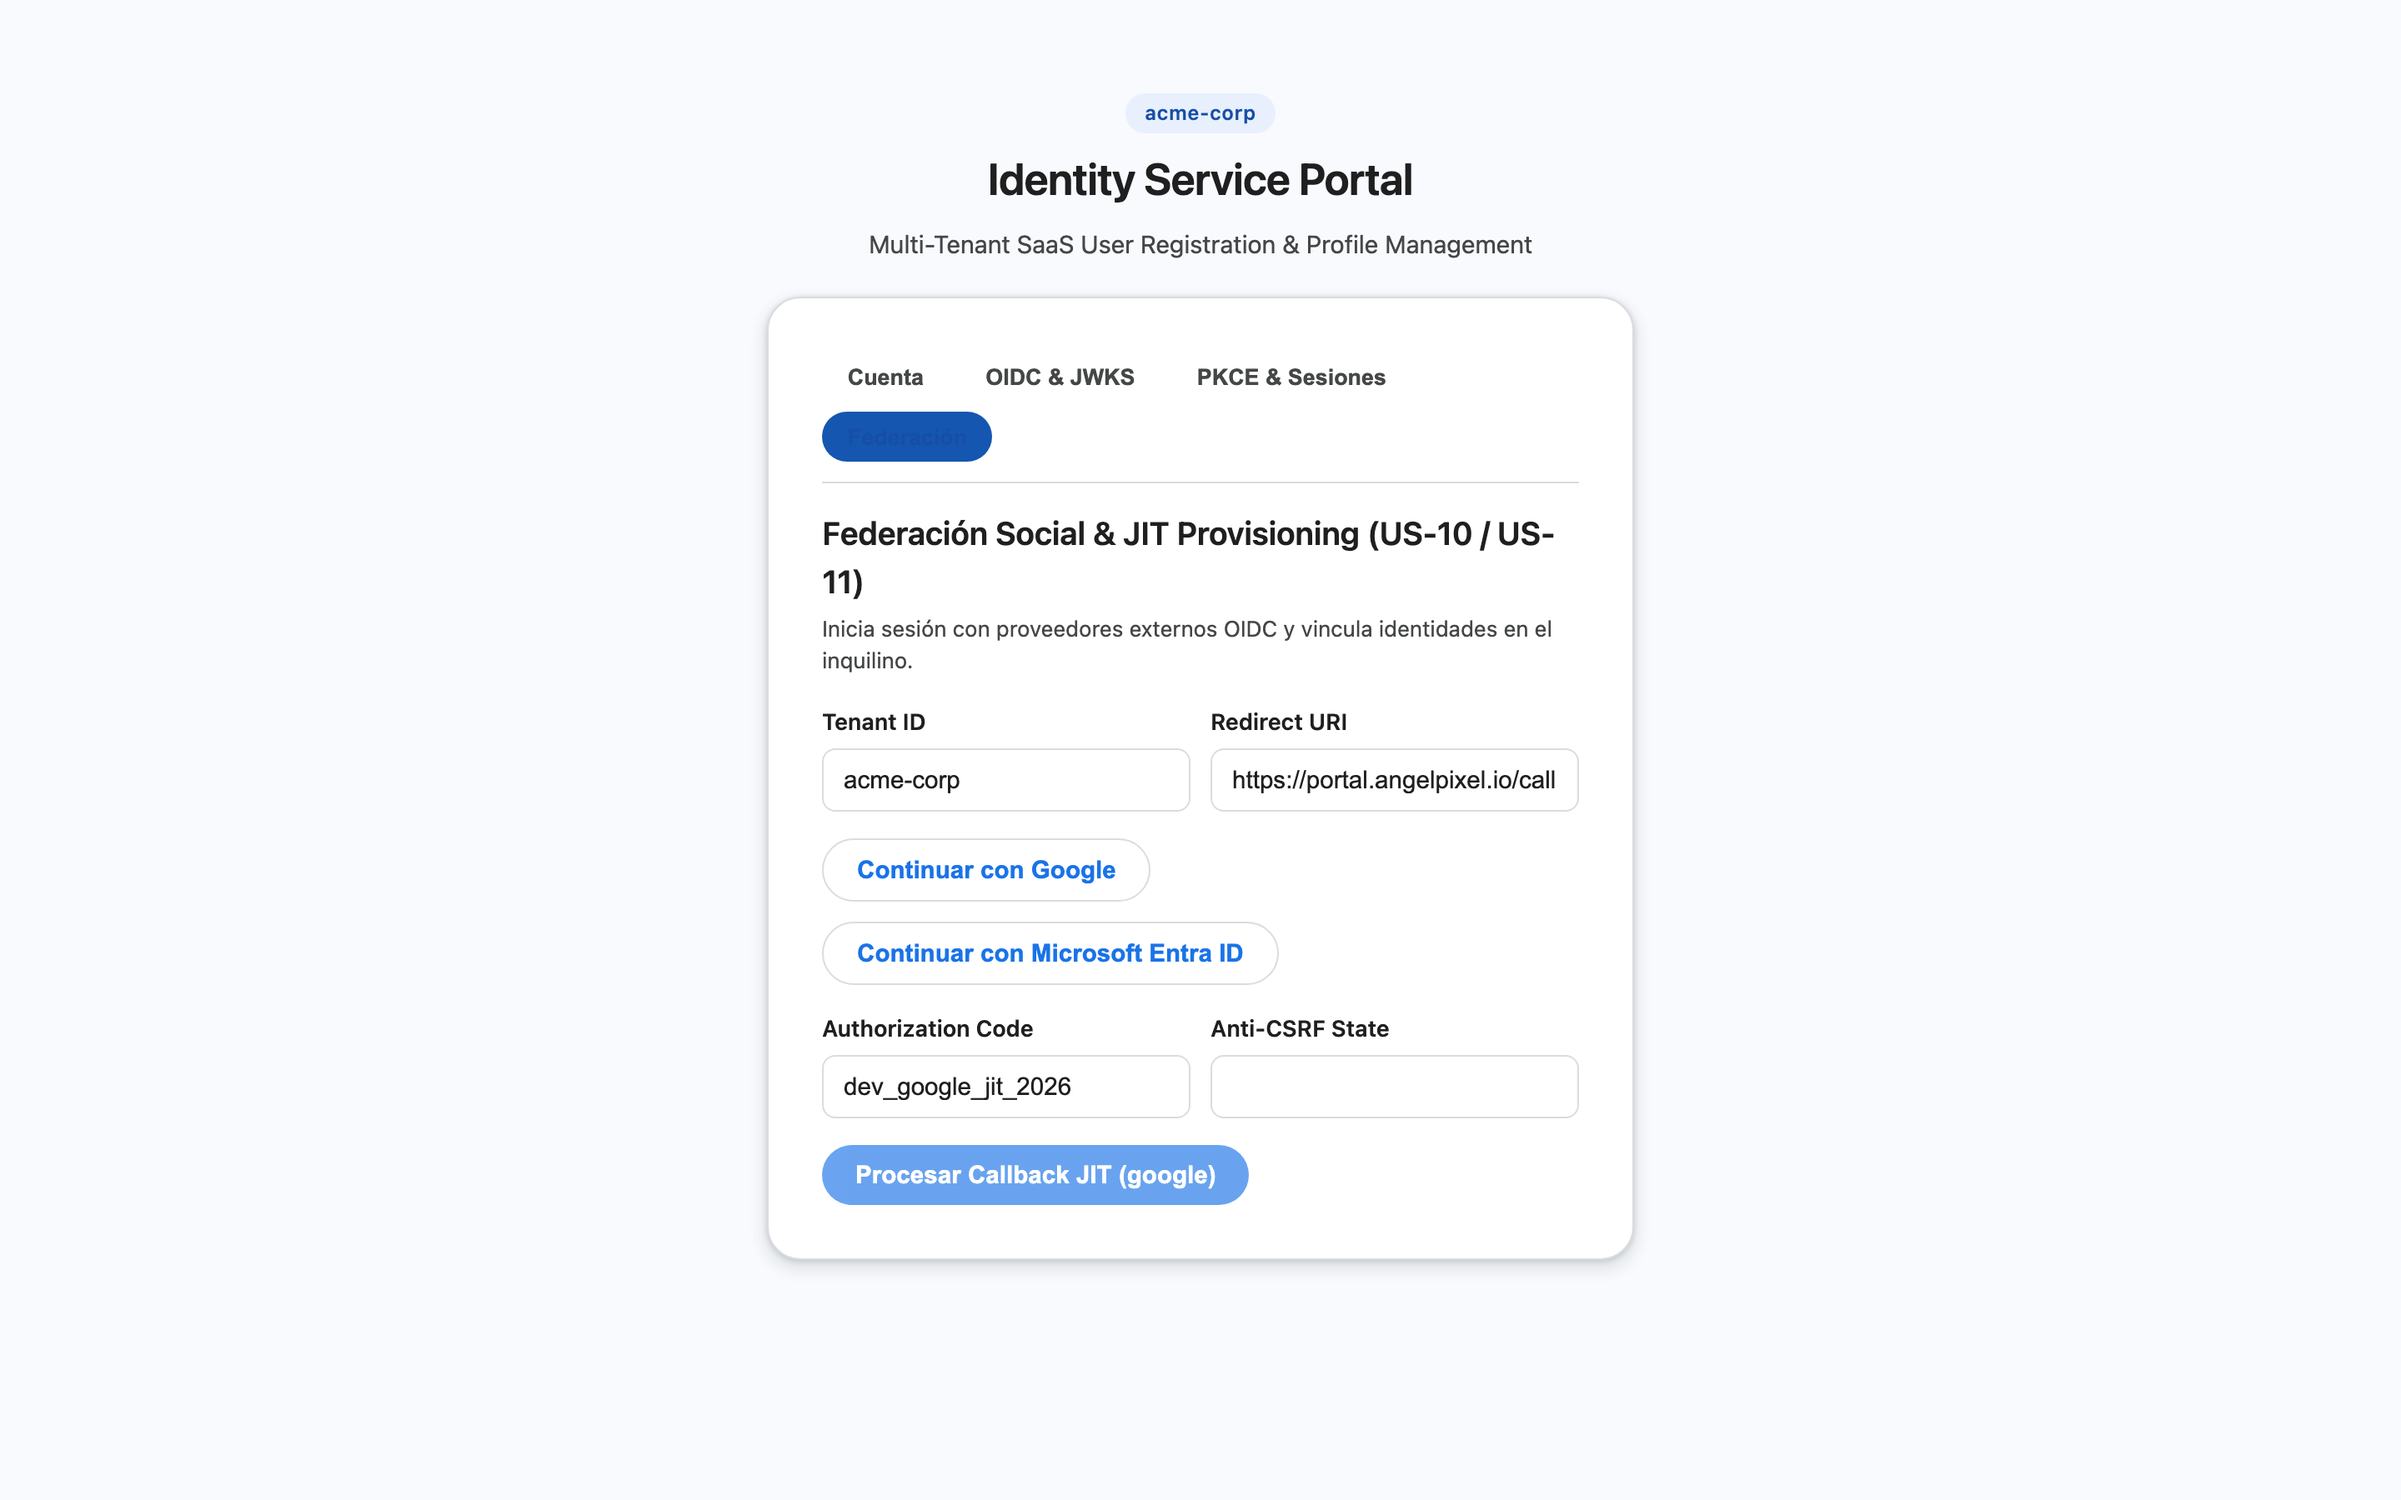
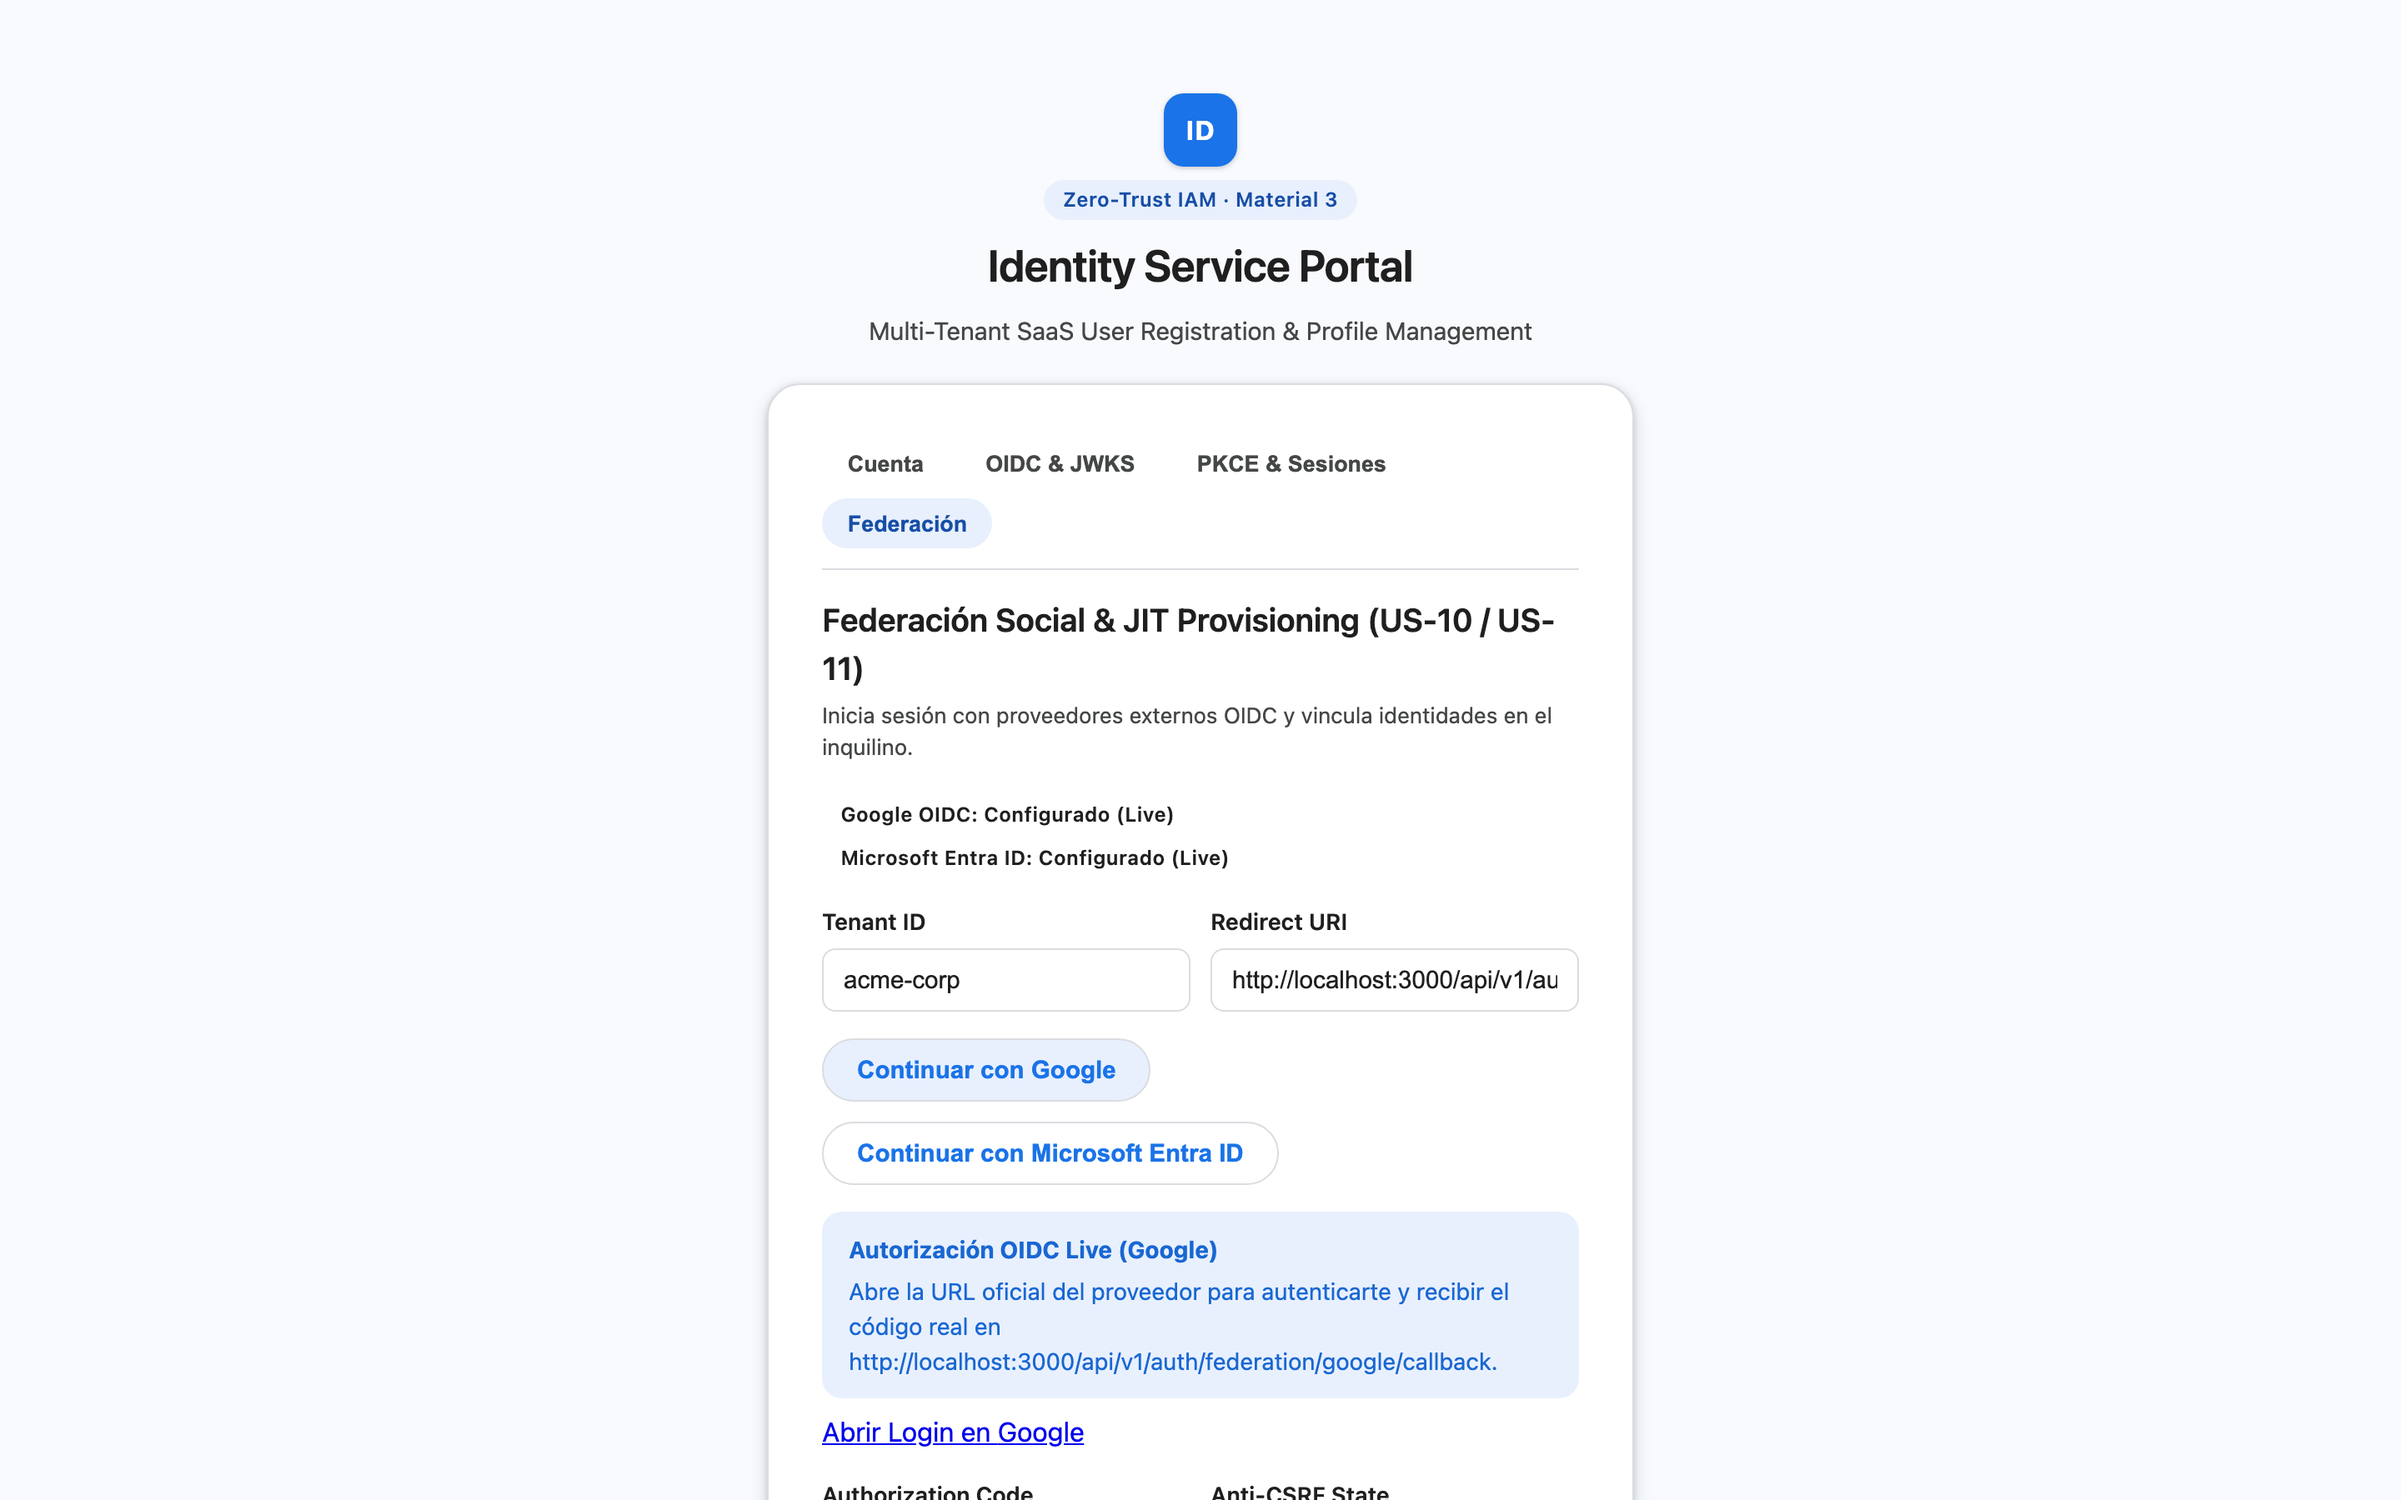
feat(web,docs): support Live OIDC login link in FederationPanel and update US-10/US-11 showcase

diff --git a/interfaces/web/client/contexts/auth/ui/FederationPanel.tsx b/interfaces/web/client/contexts/auth/ui/FederationPanel.tsx
@@ -27,15 +27,23 @@ export interface FederationPanelProps {
   onFederatedSession: (session: AuthSession) => void;
 }
 
+const DEFAULT_DEV_REDIRECT_URI = 'https://portal.angelpixel.io/callback';
+
+function buildLiveRedirectUri(selectedProvider: 'google' | 'microsoft'): string {
+  const origin = typeof window !== 'undefined' ? window.location.origin : 'http://localhost:3000';
+  return `${origin}/api/v1/auth/federation/${selectedProvider}/callback`;
+}
+
 /**
  * Federación de Identidad Externa (Google & Microsoft Entra ID - US-10 & US-11).
  */
 export function FederationPanel({ onFederatedSession }: FederationPanelProps) {
   const [provider, setProvider] = useState<'google' | 'microsoft'>('google');
   const [tenantId, setTenantId] = useState('acme-corp');
-  const [redirectUri, setRedirectUri] = useState('https://portal.angelpixel.io/callback');
+  const [redirectUri, setRedirectUri] = useState(DEFAULT_DEV_REDIRECT_URI);
   const [authCode, setAuthCode] = useState('dev_google_jit_2026');
   const [stateToken, setStateToken] = useState('');
+  const [authorizationUrl, setAuthorizationUrl] = useState<string | null>(null);
   const [result, setResult] = useState<unknown>(null);
   const [traceparent, setTraceparent] = useState<string | null>(null);
   const [error, setError] = useState<string | null>(null);
@@ -47,6 +55,10 @@ export function FederationPanel({ onFederatedSession }: FederationPanelProps) {
     void apiRequest<FederationStatusPayload>('/api/v1/auth/federation/status').then((res) => {
       if (active && res.ok && res.data?.providers) {
         setProviderStatus(res.data);
+        if (res.data.providers.google.configured) {
+          setRedirectUri(buildLiveRedirectUri('google'));
+          setAuthCode('');
+        }
       }
     });
     return () => {
@@ -58,10 +70,22 @@ export function FederationPanel({ onFederatedSession }: FederationPanelProps) {
     setProvider(selectedProvider);
     setBusy(true);
     setError(null);
+    setAuthorizationUrl(null);
     try {
+      const isLive = Boolean(providerStatus?.providers[selectedProvider]?.configured);
+      const effectiveRedirectUri =
+        isLive &&
+        (redirectUri === DEFAULT_DEV_REDIRECT_URI ||
+          redirectUri.includes('/api/v1/auth/federation/'))
+          ? buildLiveRedirectUri(selectedProvider)
+          : redirectUri;
+      if (effectiveRedirectUri !== redirectUri) {
+        setRedirectUri(effectiveRedirectUri);
+      }
+
       const query = new URLSearchParams({
         tenant_id: tenantId,
-        redirect_uri: redirectUri,
+        redirect_uri: effectiveRedirectUri,
         format: 'json',
       });
       const res = await apiRequest<{
@@ -85,6 +109,7 @@ export function FederationPanel({ onFederatedSession }: FederationPanelProps) {
       }
 
       const targetAuthUrl = res.data?.url ?? res.data?.authorizationUrl;
+      setAuthorizationUrl(targetAuthUrl ?? null);
       if (res.data?.state) {
         setStateToken(res.data.state);
       } else if (targetAuthUrl) {
@@ -97,7 +122,11 @@ export function FederationPanel({ onFederatedSession }: FederationPanelProps) {
         }
       }
       setAuthCode(
-        selectedProvider === 'google' ? 'dev_google_jit_2026' : 'dev_microsoft_jit_2026'
+        isLive
+          ? ''
+          : selectedProvider === 'google'
+            ? 'dev_google_jit_2026'
+            : 'dev_microsoft_jit_2026'
       );
     } finally {
       setBusy(false);
@@ -220,6 +249,27 @@ export function FederationPanel({ onFederatedSession }: FederationPanelProps) {
           Continuar con Microsoft Entra ID
         </M3Button>
       </div>
+
+      {authorizationUrl && providerStatus?.providers[provider]?.configured && (
+        <div className="m3-stack" style={{ gap: '0.5rem' }}>
+          <M3AlertBanner
+            severity="info"
+            title={`Autorización OIDC Live (${provider === 'google' ? 'Google' : 'Microsoft Entra ID'})`}
+            message={`Abre la URL oficial del proveedor para autenticarte y recibir el código real en ${redirectUri}.`}
+          />
+          <div className="m3-actions-row">
+            <a
+              href={authorizationUrl}
+              target="_blank"
+              rel="noopener noreferrer"
+              className="m3-button m3-button--tonal"
+              data-testid="federation-live-auth-link"
+            >
+              Abrir Login en {provider === 'google' ? 'Google' : 'Microsoft Entra ID'}
+            </a>
+          </div>
+        </div>
+      )}
 
       <div className="m3-grid-2">
         <M3TextField

diff --git a/docs/showcase/05-identity-federation.md b/docs/showcase/05-identity-federation.md
@@ -239,11 +239,13 @@ npx jest tests/unit/identity/infrastructure/federation/ tests/unit/identity/appl
 
 #### 🌐 Demostración Interactiva en la UI (Navegador — `US-10`)
 
-1. **Prerrequisitos:** Backend (`:4000`) y Vite (`:3000`) activos. Abre [`http://localhost:3000/auth`](http://localhost:3000/auth) y selecciona la pestaña **`Federación`**. Al cargar, la UI consulta `GET /api/v1/auth/federation/status` y muestra los 2 badges de estado (`Emulador Dev (sin GOOGLE_CLIENT_ID / MICROSOFT_CLIENT_ID)` o `Configurado (Live)` si ya configuraste credenciales reales en `.env`; consulta la [Guía para obtener credenciales OIDC de Google y Microsoft](../guides/oidc-federation-credentials.md)).
+1. **Prerrequisitos:** Backend (`:4000`) y Vite (`:3000`) activos. Abre [`http://localhost:3000/auth`](http://localhost:3000/auth) y selecciona la pestaña **`Federación`**. Al cargar, la UI consulta `GET /api/v1/auth/federation/status` y muestra los 2 badges de estado:
+   - **Modo Live (`Configurado (Live)` en verde):** Cuando `GOOGLE_CLIENT_ID` / `MICROSOFT_CLIENT_ID` están configurados en `.env` (consulta la [Guía para obtener credenciales OIDC de Google y Microsoft](../guides/oidc-federation-credentials.md)). La UI ajusta automáticamente el **`Redirect URI`** a `${origin}/api/v1/auth/federation/{provider}/callback` y limpia **`Authorization Code`** para evitar enviar códigos de emulador.
+   - **Modo Emulador Dev (`Emulador Dev` en ámbar):** Cuando faltan las credenciales reales en `.env`; muestra el banner informativo local y precarga los códigos simulados (`dev_google_jit_2026` / `dev_microsoft_jit_2026`).
 2. **Paso a Paso (Inicio OIDC Externo & `state` Anti-CSRF):**
    - Verifica **Tenant ID** (`acme-corp`) y **Redirect URI**.
    - Pulsa **`Continuar con Google`** (o **`Continuar con Microsoft Entra ID`**).
-   - El cliente invoca `GET /api/v1/auth/federation/:provider/login`, autocompleta el campo **`Anti-CSRF State`** firmado con HMAC-SHA256 y muestra la `authorizationUrl` generada con `nonce` y `state`.
+   - El cliente invoca `GET /api/v1/auth/federation/:provider/login`, autocompleta el campo **`Anti-CSRF State`** firmado con HMAC-SHA256 y muestra la `authorizationUrl` generada con `nonce` y `state`. En **Modo Live**, además habilita el botón **`Abrir Login en Google / Microsoft Entra ID`** para iniciar el consentimiento OIDC real en el proveedor externo.
 3. **Trazabilidad E2E:** `tests/e2e/web/auth_portal_oidc_federation.spec.tsx` (Scenario 4).
 
 ![Superficie /auth Federación Externa — Inicio OIDC & Chips de Estado](./assets/screenshots/ui_auth_federation.png)
@@ -565,8 +567,9 @@ npx jest tests/acceptance/step_defs/test_federated_account_linking_steps.ts
 #### 🌐 Demostración Interactiva en la UI (Navegador — `US-11`)
 
 1. **Prerrequisitos:** Haber iniciado el flujo en la pestaña **`Federación`** (`US-10`) obteniendo un **`Anti-CSRF State`** válido.
-2. **Paso a Paso (Aprovisionamiento JIT):**
-   - Ingresa un **`Authorization Code`** válido en el campo correspondiente.
+2. **Paso a Paso (Aprovisionamiento JIT & Account Linking):**
+   - **En Modo Live:** Abre **`Abrir Login en Google / Microsoft Entra ID`**, autentícate en el proveedor externo y obtén el `code` real devuelto al callback (o deja que el callback `GET` del backend procese el retorno directamente), o bien pégalo manualmente en **`Authorization Code`**.
+   - **En Modo Emulador Dev:** Usa el código simulado precargado (`dev_google_jit_2026` o `dev_microsoft_jit_2026`).
    - Pulsa **`Procesar Callback JIT (google)`** (o `microsoft`): invoca `POST /api/v1/auth/federation/:provider/callback`, vincula o crea la identidad local y persiste `identity_session` en `localStorage`.
 3. **Caso Negativo (Anti-CSRF `state` Manipulado):** Modifica manualmente un carácter del campo **`Anti-CSRF State`** y pulsa **`Procesar Callback JIT`** → el servidor rechaza con `400`/`403` y la UI muestra `M3AlertBanner` (`Error de Federación`).
 4. **Trazabilidad E2E:** `tests/e2e/web/auth_portal_oidc_federation.spec.tsx` (Scenario 4).
